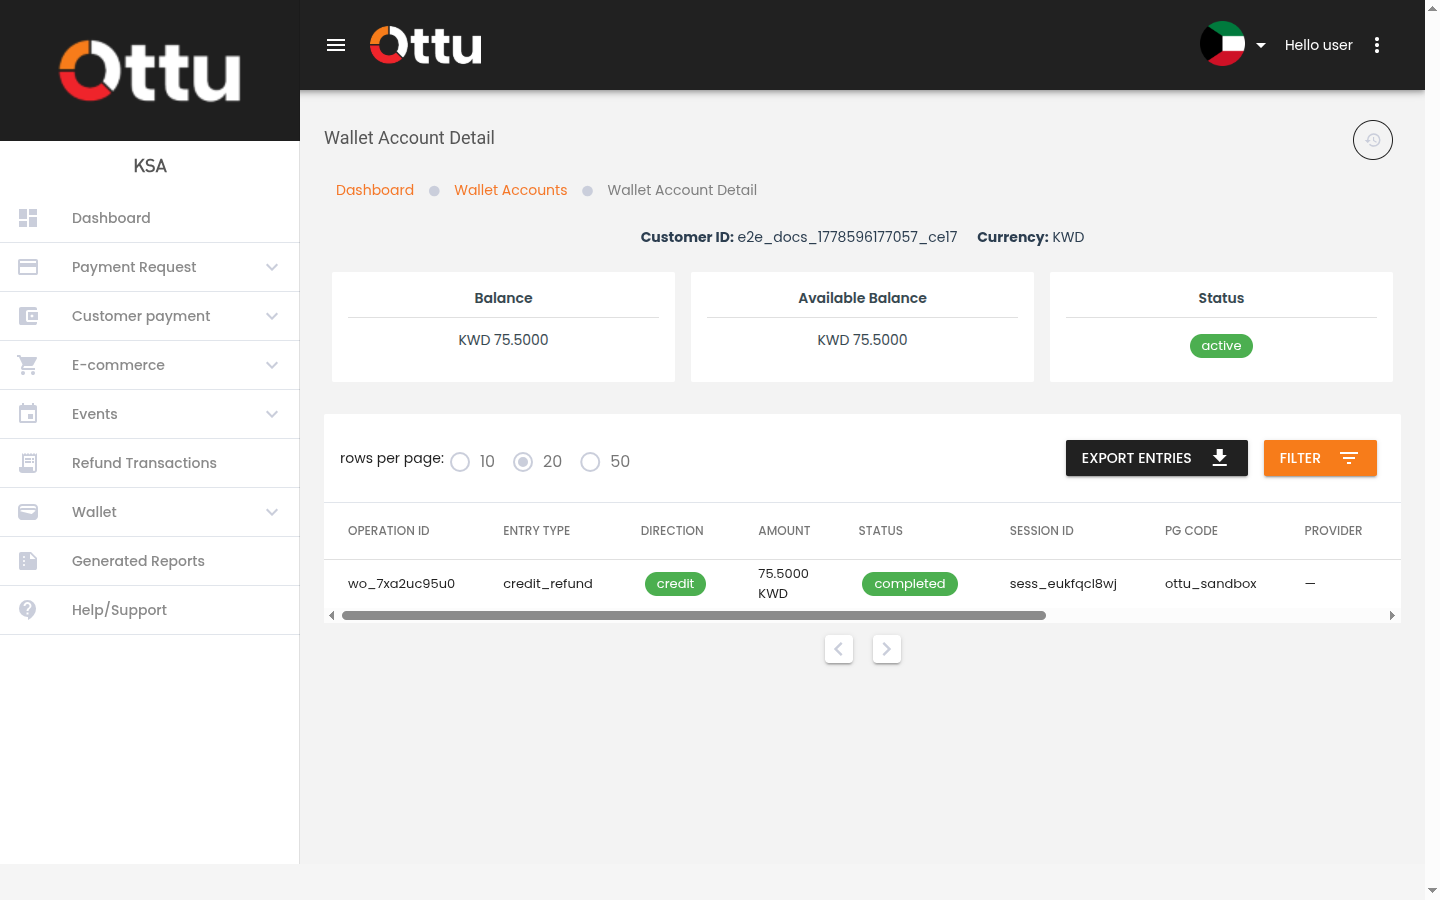
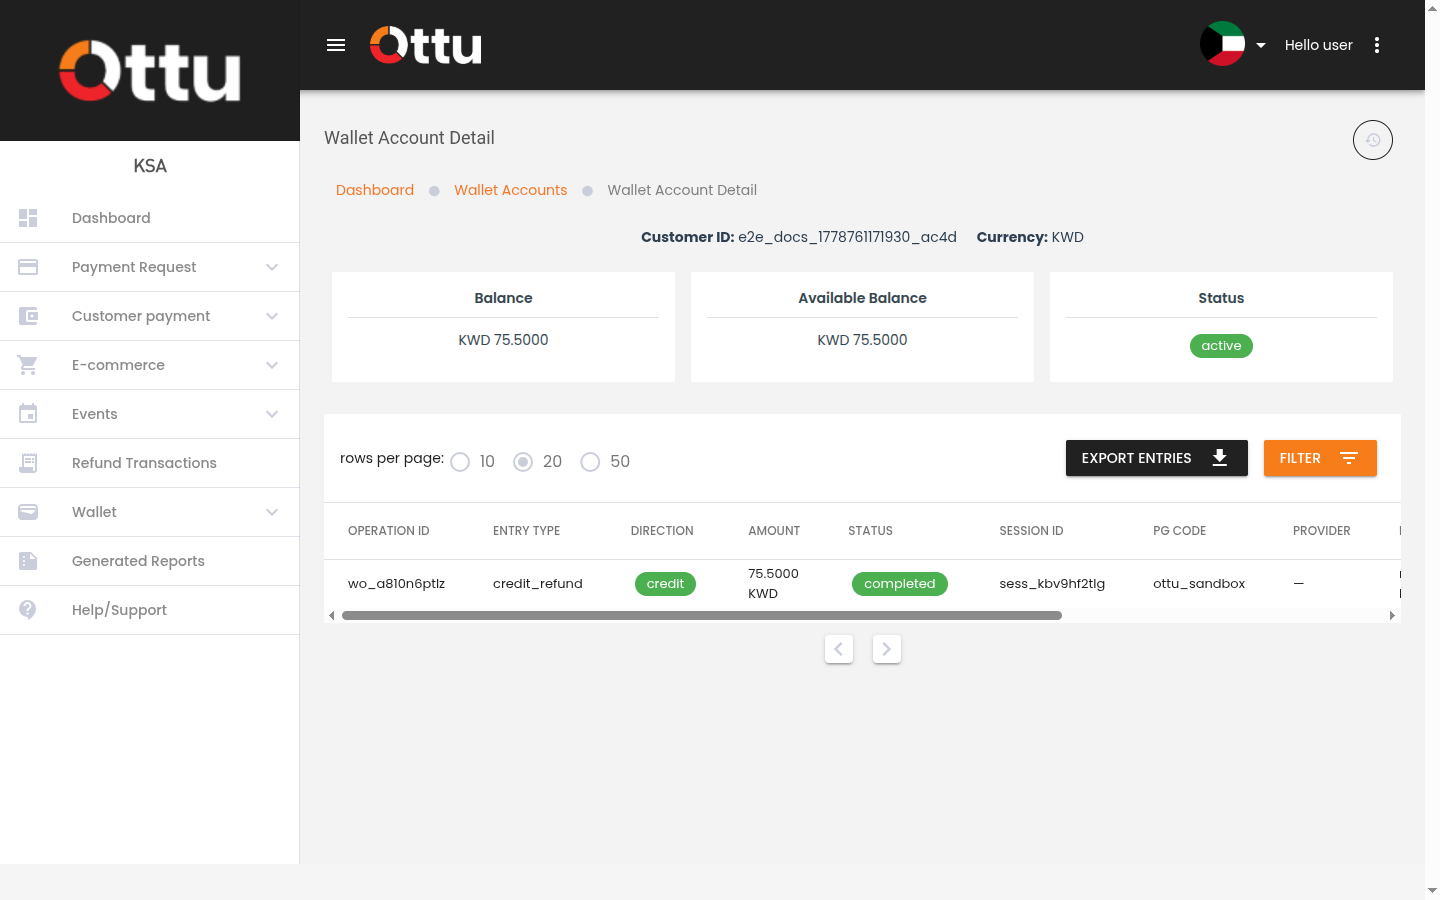
153887 :: fix: enhance wallet documentation with detailed steps and updated images

diff --git a/docs/business/wallet/index.md b/docs/business/wallet/index.md
@@ -122,29 +122,35 @@ Lists every customer who has a wallet account with your business, with current b
 
 ### Ledger screen
 
-Shows every credit, debit, and reservation entry for an account. Entries are immutable — they cannot be edited or deleted. Corrections are made via reversals.
+Every credit, debit, and reservation for an account lives in the ledger. Entries are **immutable** — corrections are made by adding reversal entries, never by editing the originals.
 
-Each entry shows:
+<StepGuide steps={[
+  {
+    title: "View the entries",
+    description: <>Open any account from the <strong>Accounts</strong> screen to see its full history — every credit, debit, and reservation, with the entry type, amount, direction, status, and linked payment session for each row.</>,
+    image: "/img/business/wallet/reporting-04-ledger.png",
+    imageAlt: "Ledger screen with entry rows visible",
+  },
+  {
+    title: "Filter the entries",
+    description: <>Use the <strong>Filter</strong> panel to narrow by entry type (credit, debit, reserve, release), status, currency, date range, or linked session ID.</>,
+    image: "/img/business/wallet/reporting-ledger-filters.png",
+    imageAlt: "Ledger screen with the filter panel open",
+  },
+]} />
+
+<details>
+<summary>What each column means</summary>
 
 - **Operation ID** — unique identifier for the ledger row.
 - **Entry Type** — `credit_refund`, `debit_payment`, `debit_adjustment`, `credit_adjustment`, `reserve`, `release`, `expire`, or `reversal`.
 - **Amount** — signed amount in the wallet currency.
-- **Direction** — High-level accounting direction: `credit` (balance increases) or `debit` (balance decreases). Use this for quick filtering; see Entry Type for the exact operation.
-- **Status** — Current state of the entry (`pending`, `completed`, `failed`, etc.).
+- **Direction** — high-level accounting direction: `credit` (balance increases) or `debit` (balance decreases). Use it for quick filtering; see Entry Type for the exact operation.
+- **Status** — current state of the entry (`pending`, `completed`, `failed`, etc.).
 - **Linked session** — the original payment session this entry references, if any.
 - **Timestamp** — when the entry was recorded.
 
-![Ledger screen with columns visible](/img/business/wallet/reporting-04-ledger.png)
-
-Filter by:
-
-- Entry type (credit / debit / reserve / release)
-- Customer ID
-- Currency
-- Date range
-- Linked session ID
-
-![Ledger screen with Filters visible](/img/business/wallet/reporting-ledger-filters.png)
+</details>
 
 ### Operations screen
 
@@ -154,19 +160,28 @@ Lists individual wallet operations (a single credit, debit, or reservation cycle
 
 ## Exporting
 
-You can export Accounts, Ledger, or Operations data as **CSV** or **XLSX** for offline analysis and accounting.
+Export Accounts or Ledger data as **CSV** or **XLSX** for offline analysis and accounting. Exports are generated asynchronously — you queue a report from the account, then pick it up from **Generated Reports** once it's ready.
 
-The Export Entries dialog lets you narrow the rows by Order Number, Session ID, Direction, Entry Type, Status, Provider, PG Code, or Date range, and choose **CSV** or **XLSX** as the output format.
-
-![Export Entries dialog with filter fields and CSV / XLSX file-format options](/img/business/wallet/reporting-06-export.png)
-
-**Two-step walkthrough:**
-
-![Step 1 — click Export Entries on the account detail page](/img/business/wallet/reporting-07-export-cursor-step-1.png)
-
-After you submit, the file is generated asynchronously. Open **Generated Reports → Wallet Exports** to find it; rows with a green download arrow are ready, a progressive circle means the file is in process, and an X means the file generation failed.
-
-![Step 2 — download the generated file from Generated Reports → Wallet Exports](/img/business/wallet/reporting-07-export-cursor-step-2.png)
+<StepGuide steps={[
+  {
+    title: "Click Export Entries",
+    description: <>From any account's detail page, click <strong>Export Entries</strong> next to the Filter button.</>,
+    image: "/img/business/wallet/reporting-04-ledger.png",
+    imageAlt: "Cursor pointing at the Export Entries button on the account detail page",
+  },
+  {
+    title: "Choose filters and format",
+    description: <>Narrow the rows by Order Number, Session ID, Direction, Entry Type, Status, Provider, PG Code, or Date range, pick <strong>CSV</strong> or <strong>XLSX</strong>, then click <strong>Export</strong>.</>,
+    image: "/img/business/wallet/reporting-06-export.png",
+    imageAlt: "Export Entries dialog with filter fields and CSV / XLSX file-format options",
+  },
+  {
+    title: "Download from Generated Reports",
+    description: <>Open <strong>Generated Reports → Wallet Exports</strong>. A green arrow means the file is ready to download, a progress circle means it's still processing, and an X means generation failed.</>,
+    image: "/img/business/wallet/reporting-07-export-cursor-step-2.png",
+    imageAlt: "Generated Reports → Wallet Exports list with download icons per row",
+  },
+]} />
 
 
 ## Things to know